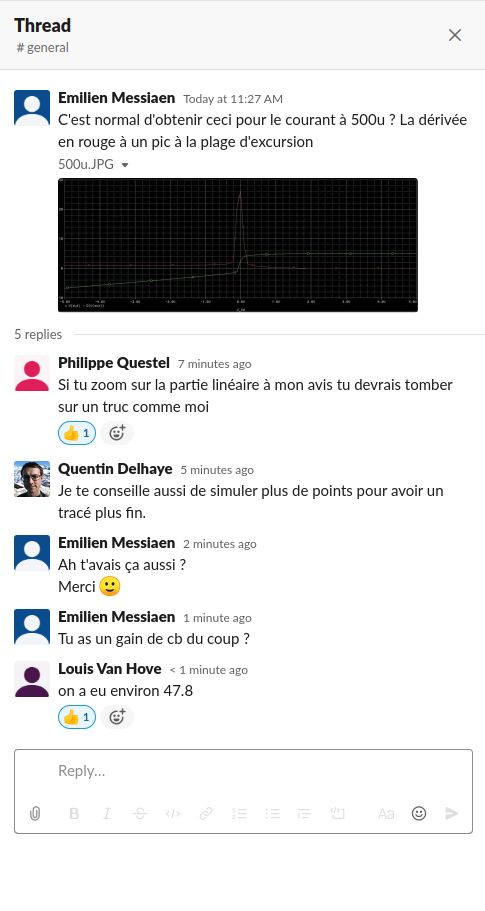
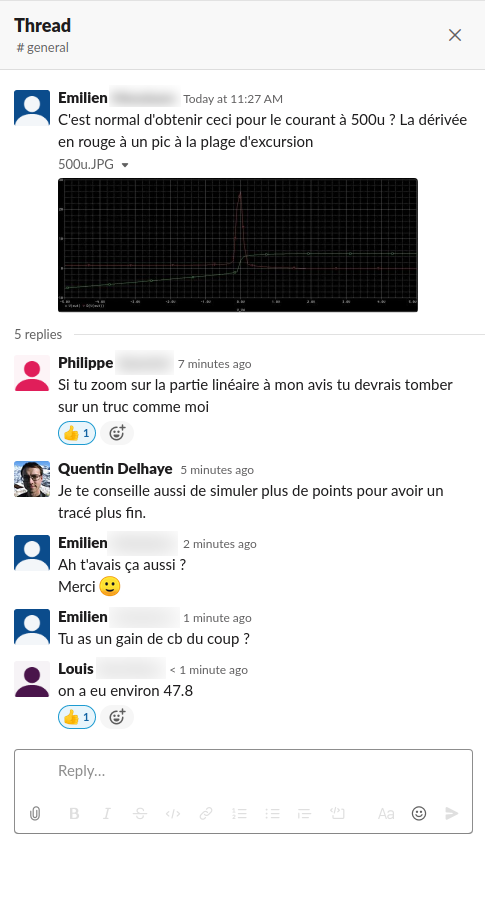
[PF] typos & RGPD

diff --git a/docs/laboratoires-a-distance-premiere-semaine.html b/docs/laboratoires-a-distance-premiere-semaine.html
@@ -177,14 +177,6 @@ into the {body} of the default.hbs template -->
 <h2 id="enseignements-étudiés">Enseignements étudiés</h2>
 <p>Deux cours sont étudiés dans ce billet. Je présente rapidement leurs caractéristiques pertinentes ci-dessous avant de passer aux dispositifs d’enseignement à distance.</p>
 
-<h3 id="elech402---électronique-analogique">ELECH402 - Électronique analogique</h3>
-<ul>
-  <li>Public : Cours dispensé aux MA1 Polytech option Biomédical. Il s’agit d’une cohorte d’environ 25 étudiants.</li>
-  <li>Type de laboratoire : Simulations de circuits électronique en utilisant <em>Cadence PSPICE</em>. Ce logiciel ne tourne que sous Windows (natif ou en machine virtuelle).</li>
-  <li>Évaluation : Examen de laboratoire prévu mi-mai.<br />
-<em>Note</em> : La communication à ce sujet a été effectuée lorsque les cours devaient encore reprendre le 19 avril. Étant donné que le reste du quadrimestre se déroulera à distance, cette évaluation devra être revue, dans sa forme voire dans son existence.</li>
-</ul>
-
 <h3 id="elech473---microprocessor-architectures">ELECH473 - Microprocessor Architectures</h3>
 <ul>
   <li>Public : Cours dispensé aux MA1 Polytech Informatique, Électronique et aux MA1 Sciences informatiques. Il s’agit d’une cohorte d’environ 100 étudiants.<br />
@@ -193,17 +185,25 @@ into the {body} of the default.hbs template -->
   <li>Évaluation : Devoirs à remettre une semaine après la séance de laboratoire. La remise de ces devoirs exploite des module Moodle sur l’UV, l’expérience est donc déjà numérique pour les apprenants.</li>
 </ul>
 
+<h3 id="elech402---électronique-analogique">ELECH402 - Électronique analogique</h3>
+<ul>
+  <li>Public : Cours dispensé aux MA1 Polytech option Biomédical. Il s’agit d’une cohorte d’environ 25 étudiants.</li>
+  <li>Type de laboratoire : Simulations de circuits électronique en utilisant <em>Cadence PSPICE</em>. Ce logiciel ne tourne que sous Windows (natif ou en machine virtuelle).</li>
+  <li>Évaluation : Examen de laboratoire prévu mi-mai.<br />
+<em>Note</em> : La communication à ce sujet a été effectuée lorsque les cours devaient encore reprendre le 19 avril. Étant donné que le reste du quadrimestre se déroulera à distance, cette évaluation devra être revue, dans sa forme voire dans son existence.</li>
+</ul>
+
 <h2 id="outils-mis-en-place">Outils mis en place</h2>
 <ol>
   <li>
     <p>Une communication claire et détaillée par mail via Moodle.<br />
 La première étape a été d’informer les apprenants des mesures prises pour assurer la continuité des laboratoires malgré la distance.
 Ce message avait donc pour but de clarifier quels outils sont nécessaire pour <em>réaliser</em> le laboratoire, quels autres outils sont utilisés pour <em>communiquer</em> durant la séance et enfin le statut des évaluations afférentes aux manipulations.<br />
-Une capture du message envoyé pour ELECH402 peut être consultée <a href="assets/images/labo-distance/uv-h402.png">ici</a> et celle de ELECH473 <a href="assets/images/labo-distance/uv-h473.png">ici</a>.</p>
+Une capture du message envoyé pour ELECH473 peut être consultée <a href="assets/images/labo-distance/uv-h473.png">ici</a> et celle pour ELECH402 <a href="assets/images/labo-distance/uv-h402.png">ici</a>.</p>
   </li>
   <li>
     <p>Le maintien de l’évaluation.<br />
-Pour beaucoup d’apprenants, nous constatons que l’implication dans les laboratoires est directement corrélée à des éléments concordants avec leur stratégie d’apprentissage, notamment la présence d’un examen de laboratoire (dans le cas de ELECH402) ou de devoirs évalués (ELECH473).</p>
+Pour beaucoup d’apprenants, nous constatons que l’implication dans les laboratoires est directement corrélée à des éléments concordants avec leur stratégie d’apprentissage, notamment la présence de devoirs évalués (ELECH473) ou  d’un examen de laboratoire (dans le cas de ELECH402).</p>
   </li>
   <li>
     <p>Communication durant la séance.<br />
@@ -222,9 +222,9 @@ Deux outils ont été proposés aux apprenant : (1) <a href="https://slack.com/"
 <p>Trois questions.<br />
 Trois questions ont été posées sur l’ensemble des trois séances de laboratoire de la semaine. En plus d’être décevant, ce premier résultat n’augurait rien de bon pour le laboratoire de ELECH402 devant se dérouler en fin de semaine.</p>
 
-<p>Au cours des séances de laboratoire en présentiel, nous avons deux façon différentes de gérer les questions des étudiants.
+<p>Au cours des séances de laboratoire en présentiel, nous avons deux façons différentes de gérer les questions des étudiants.
 Lors de la première, nous passons derrière les étudiants, montrant notre disponibilité et les interpellant directement si nous voyons qu’ils sont bloqués ou qu’ils se fourvoient.
-Pour la seconde, nous leur indiquons clairement que nous disponibles, mais restons à un endroit fixes où ils peuvent venir quérir notre aide si nécessaire.
+Pour la seconde, nous leur indiquons clairement que nous sommes disponibles, mais restons a un endroit fixes où ils peuvent venir quérir notre aide si nécessaire.
 Bien que la première méthode génère évidemment plus de questions de la part des étudiants, la seconde n’en est pas moins efficace. Ils sont simplement davantage confrontés à leur problèmes et doivent explicitement passer par une étape de formulation de leur problème s’il veulent efficacement poser leur question.<br />
 Il serait aussi raisonnable de penser qu’un groupe habitué à ce genre d’interaction en présentiel serait plus apte à s’adapter à une communication synchrone à distance.</p>
 
@@ -241,7 +241,7 @@ Ils n’ont pas hésité à poser leurs questions dans le salon public, mes rép
 
 <p><img src="assets/images/labo-distance/slack-h402.png" alt="Slack ELECH402" /></p>
 
-<p>Pour cette cohorte, l’utilisation de ces outils à distance à été un franc succès.</p>
+<p>Pour cette cohorte, l’utilisation de ces outils à distance a été un franc succès.</p>
 
 <h2 id="pourquoi-une-telle-différence-">Pourquoi une telle différence ?</h2>
 <p>Sur le papier, ces deux cohortes ont énormément de points communs :</p>

diff --git a/jasper2/_posts/2020-03-23-laboratoires-a-distance-premiere-semaine.md b/jasper2/_posts/2020-03-23-laboratoires-a-distance-premiere-semaine.md
@@ -18,27 +18,27 @@ Cette première semaine de distanciation forcée est une bonne occasion de reven
 ## Enseignements étudiés
 Deux cours sont étudiés dans ce billet. Je présente rapidement leurs caractéristiques pertinentes ci-dessous avant de passer aux dispositifs d'enseignement à distance.
 
-### ELECH402 - Électronique analogique
-* Public : Cours dispensé aux MA1 Polytech option Biomédical. Il s'agit d'une cohorte d'environ 25 étudiants.
-* Type de laboratoire : Simulations de circuits électronique en utilisant *Cadence PSPICE*. Ce logiciel ne tourne que sous Windows (natif ou en machine virtuelle).
-* Évaluation : Examen de laboratoire prévu mi-mai.  
-*Note* : La communication à ce sujet a été effectuée lorsque les cours devaient encore reprendre le 19 avril. Étant donné que le reste du quadrimestre se déroulera à distance, cette évaluation devra être revue, dans sa forme voire dans son existence.
-
 ### ELECH473 - Microprocessor Architectures
 * Public : Cours dispensé aux MA1 Polytech Informatique, Électronique et aux MA1 Sciences informatiques. Il s'agit d'une cohorte d'environ 100 étudiants.  
 *Note* : L'option *Électronique* fait partie du programme [Bruface](http://www.bruface.eu/), accueillant des étudiants de l'ULB, de la VUB et de nombreux étrangers, diversifiant d'autant plus le public de ce cours.
 * Type de laboratoire : Coder dans des logiciels multi-plate-formes (Windows/macOS/Linux).
 * Évaluation : Devoirs à remettre une semaine après la séance de laboratoire. La remise de ces devoirs exploite des module Moodle sur l'UV, l'expérience est donc déjà numérique pour les apprenants.
 
+### ELECH402 - Électronique analogique
+* Public : Cours dispensé aux MA1 Polytech option Biomédical. Il s'agit d'une cohorte d'environ 25 étudiants.
+* Type de laboratoire : Simulations de circuits électronique en utilisant *Cadence PSPICE*. Ce logiciel ne tourne que sous Windows (natif ou en machine virtuelle).
+* Évaluation : Examen de laboratoire prévu mi-mai.  
+*Note* : La communication à ce sujet a été effectuée lorsque les cours devaient encore reprendre le 19 avril. Étant donné que le reste du quadrimestre se déroulera à distance, cette évaluation devra être revue, dans sa forme voire dans son existence.
+
 ## Outils mis en place
 1. Une communication claire et détaillée par mail via Moodle.  
 La première étape a été d'informer les apprenants des mesures prises pour assurer la continuité des laboratoires malgré la distance.
 Ce message avait donc pour but de clarifier quels outils sont nécessaire pour *réaliser* le laboratoire, quels autres outils sont utilisés pour *communiquer* durant la séance et enfin le statut des évaluations afférentes aux manipulations.  
-Une capture du message envoyé pour ELECH402 peut être consultée [ici](assets/images/labo-distance/uv-h402.png) et celle de ELECH473 [ici](assets/images/labo-distance/uv-h473.png).
+Une capture du message envoyé pour ELECH473 peut être consultée [ici](assets/images/labo-distance/uv-h473.png) et celle pour ELECH402 [ici](assets/images/labo-distance/uv-h402.png).
 
 
 2. Le maintien de l'évaluation.  
-Pour beaucoup d'apprenants, nous constatons que l'implication dans les laboratoires est directement corrélée à des éléments concordants avec leur stratégie d'apprentissage, notamment la présence d'un examen de laboratoire (dans le cas de ELECH402) ou de devoirs évalués (ELECH473).
+Pour beaucoup d'apprenants, nous constatons que l'implication dans les laboratoires est directement corrélée à des éléments concordants avec leur stratégie d'apprentissage, notamment la présence de devoirs évalués (ELECH473) ou  d'un examen de laboratoire (dans le cas de ELECH402).
 
 3. Communication durant la séance.  
 Deux outils ont été proposés aux apprenant : (1) [Slack](https://slack.com/) pour la communication ne nécessitant pas une réponse immédiate et (2) [Jitsi](https://jitsi.org/) au cas où ils veulent poser une question de vive voix ou partager leur écran.
@@ -54,9 +54,9 @@ Les résultats de l'efficacité de ces outils est mesurées par la simple implic
 Trois questions.  
 Trois questions ont été posées sur l'ensemble des trois séances de laboratoire de la semaine. En plus d'être décevant, ce premier résultat n'augurait rien de bon pour le laboratoire de ELECH402 devant se dérouler en fin de semaine.
 
-Au cours des séances de laboratoire en présentiel, nous avons deux façon différentes de gérer les questions des étudiants.
+Au cours des séances de laboratoire en présentiel, nous avons deux façons différentes de gérer les questions des étudiants.
 Lors de la première, nous passons derrière les étudiants, montrant notre disponibilité et les interpellant directement si nous voyons qu'ils sont bloqués ou qu'ils se fourvoient.
-Pour la seconde, nous leur indiquons clairement que nous disponibles, mais restons à un endroit fixes où ils peuvent venir quérir notre aide si nécessaire.
+Pour la seconde, nous leur indiquons clairement que nous sommes disponibles, mais restons a un endroit fixes où ils peuvent venir quérir notre aide si nécessaire.
 Bien que la première méthode génère évidemment plus de questions de la part des étudiants, la seconde n'en est pas moins efficace. Ils sont simplement davantage confrontés à leur problèmes et doivent explicitement passer par une étape de formulation de leur problème s'il veulent efficacement poser leur question.  
 Il serait aussi raisonnable de penser qu'un groupe habitué à ce genre d'interaction en présentiel serait plus apte à s'adapter à une communication synchrone à distance.
 
@@ -73,7 +73,7 @@ Ils n'ont pas hésité à poser leurs questions dans le salon public, mes répon
 
 ![Slack ELECH402](assets/images/labo-distance/slack-h402.png)
 
-Pour cette cohorte, l'utilisation de ces outils à distance à été un franc succès.
+Pour cette cohorte, l'utilisation de ces outils à distance a été un franc succès.
 
 ## Pourquoi une telle différence ?
 Sur le papier, ces deux cohortes ont énormément de points communs : 
